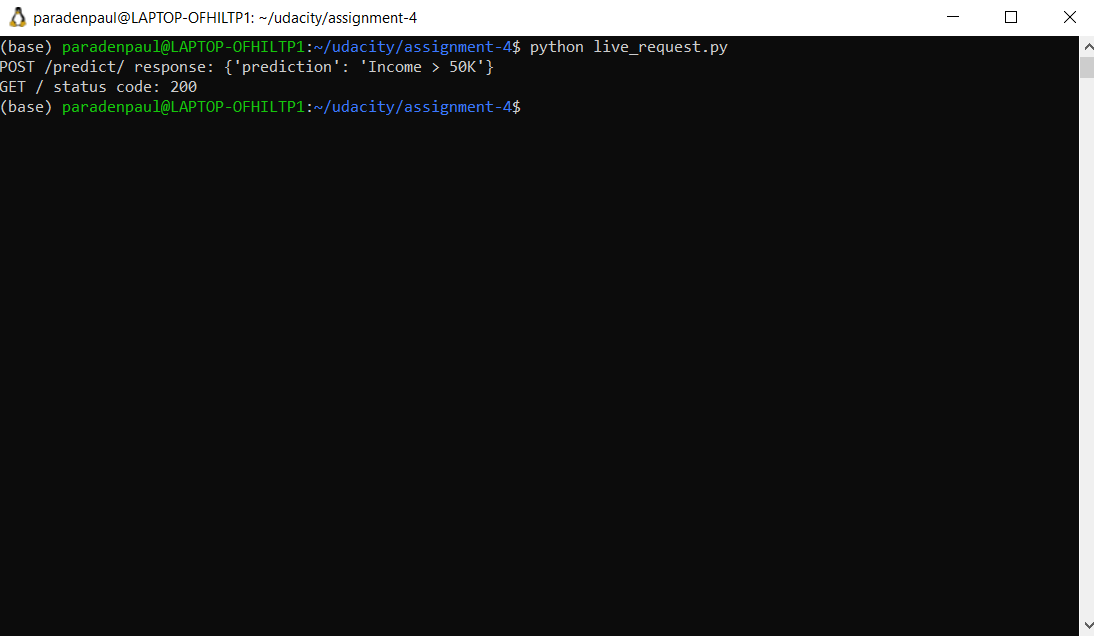
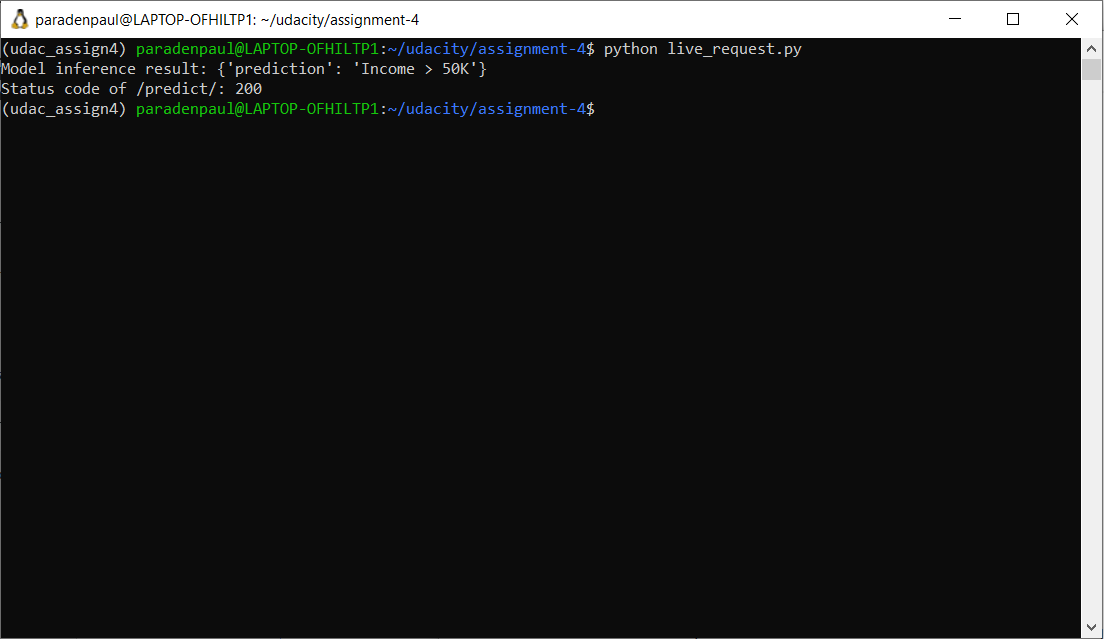
Add requested test screenshots and corrected live_post script + screenshot.

Changed region(s): [[0.0, 0.0, 1.0, 1.0]]

diff --git a/live_request.py b/live_request.py
@@ -1,7 +1,7 @@
 import requests
 
 
-base_url = 'https://udacity-assignment-4-fastapi.onrender.com'
+url = 'https://udacity-assignment-4-fastapi.onrender.com/predict/'
 data = {
     "age": 39,
     "workclass": "State-gov",
@@ -20,11 +20,8 @@ data = {
 }
 
 # POST request to the /predict/ endpoint
-predict_url = f'{base_url}/predict/'
-response = requests.post(predict_url, json=data)
-print("POST /predict/ response:", response.json())
+response = requests.post(url, json=data)
 
-# GET request to the root endpoint
-root_url = base_url + '/'
-root_response = requests.get(root_url)
-print("GET / status code:", root_response.status_code)
+# Print both the JSON response and the status code of the POST request
+print("Model inference result:", response.json())
+print("Status code of /predict/:", response.status_code)
